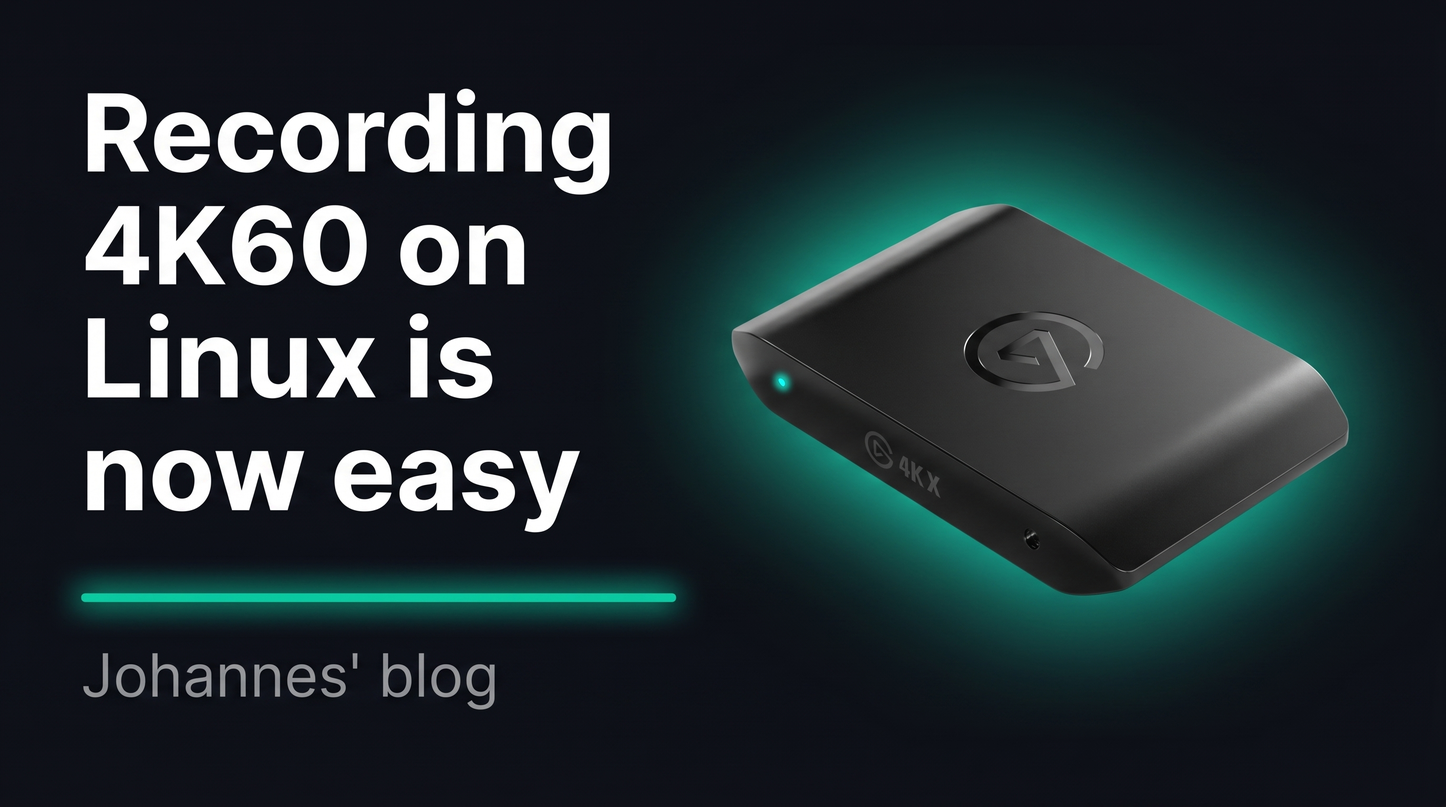
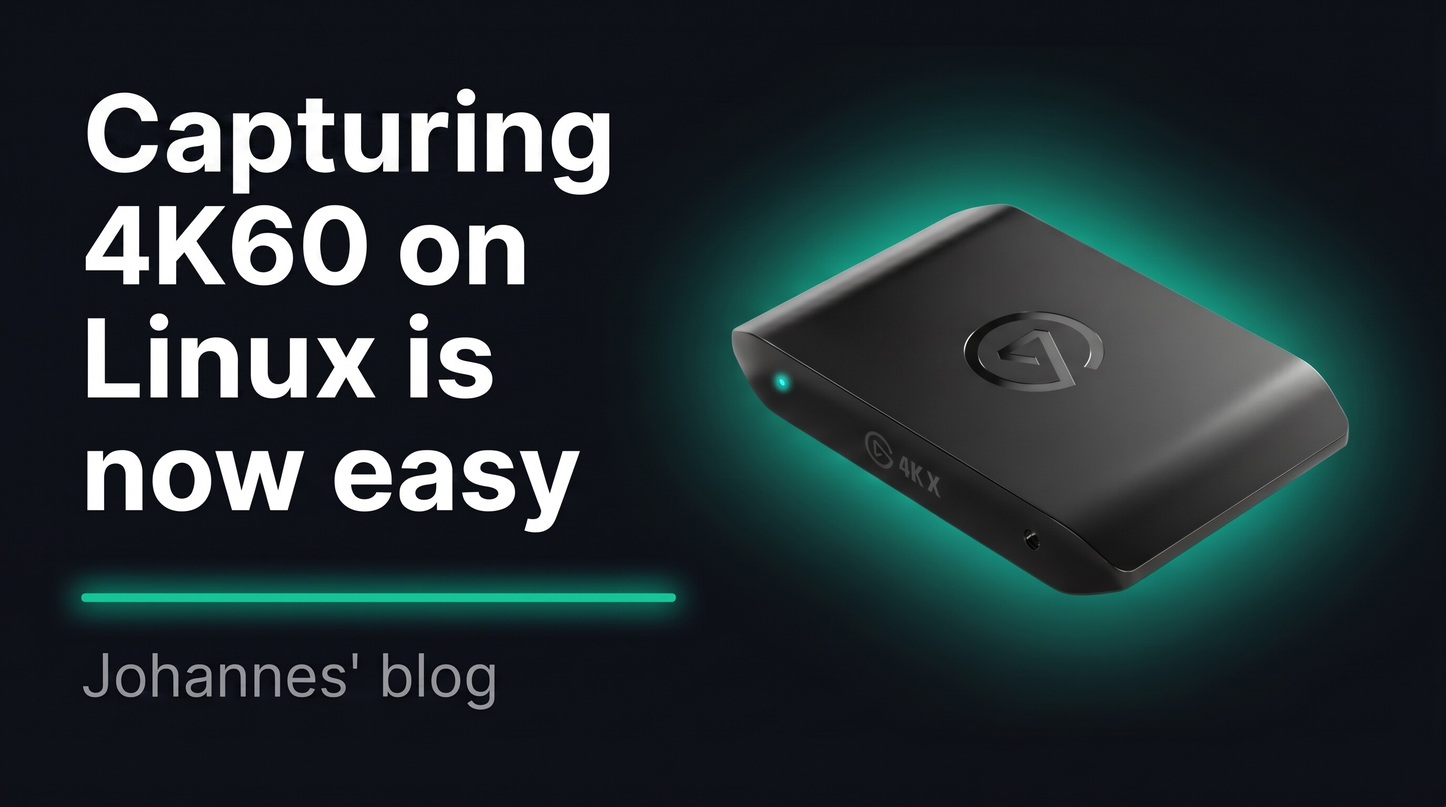
post: retitle 'Recording 4K60' to 'Capturing 4K60', regen OG card
'Capturing' matches the post's own vocabulary (capture card, UVC capture
device, game capture 4K X); OBS records downstream. Updated the title, the
mirroring opening line, and regenerated the OG image text to match.

Changed region(s): [[0.0625, 0.0938, 0.3125, 0.25]]

diff --git a/content/elgato_4k_x_usb_bos_quirk.md b/content/elgato_4k_x_usb_bos_quirk.md
@@ -1,12 +1,12 @@
 ---
-title: "Recording 4K60 on Linux is now easy (my first kernel patch)"
+title: "Capturing 4K60 on Linux is now easy (my first kernel patch)"
 date: 2026-05-30T11:00:00+02:00
 draft: false
 tags: [linux,kernel,usb,obs]
 image: "/img/elgato-4k-x-usb-bos-quirk-og.jpg"
 ---
 
-Recording 4K60 on Linux used to be a mess. As of Linux 6.19 you plug in an [Elgato 4K X](https://www.elgato.com/us/en/p/game-capture-4k-x), open OBS, and get clean 4K60 with the in-kernel driver and no extra software. What fixed it is a small USB quirk i got into the kernel.
+Capturing 4K60 on Linux used to be a mess. As of Linux 6.19 you plug in an [Elgato 4K X](https://www.elgato.com/us/en/p/game-capture-4k-x), open OBS, and get clean 4K60 with the in-kernel driver and no extra software. What fixed it is a small USB quirk i got into the kernel.
 
 i needed this for my daughter Karolina's YouTube channel, [Karo's Gaming World](https://www.youtube.com/@KarosGamingWorld), which records clean 4K60 Nintendo gameplay. Shameless plug: if you like that kind of thing, leave her a sub. :)
 
